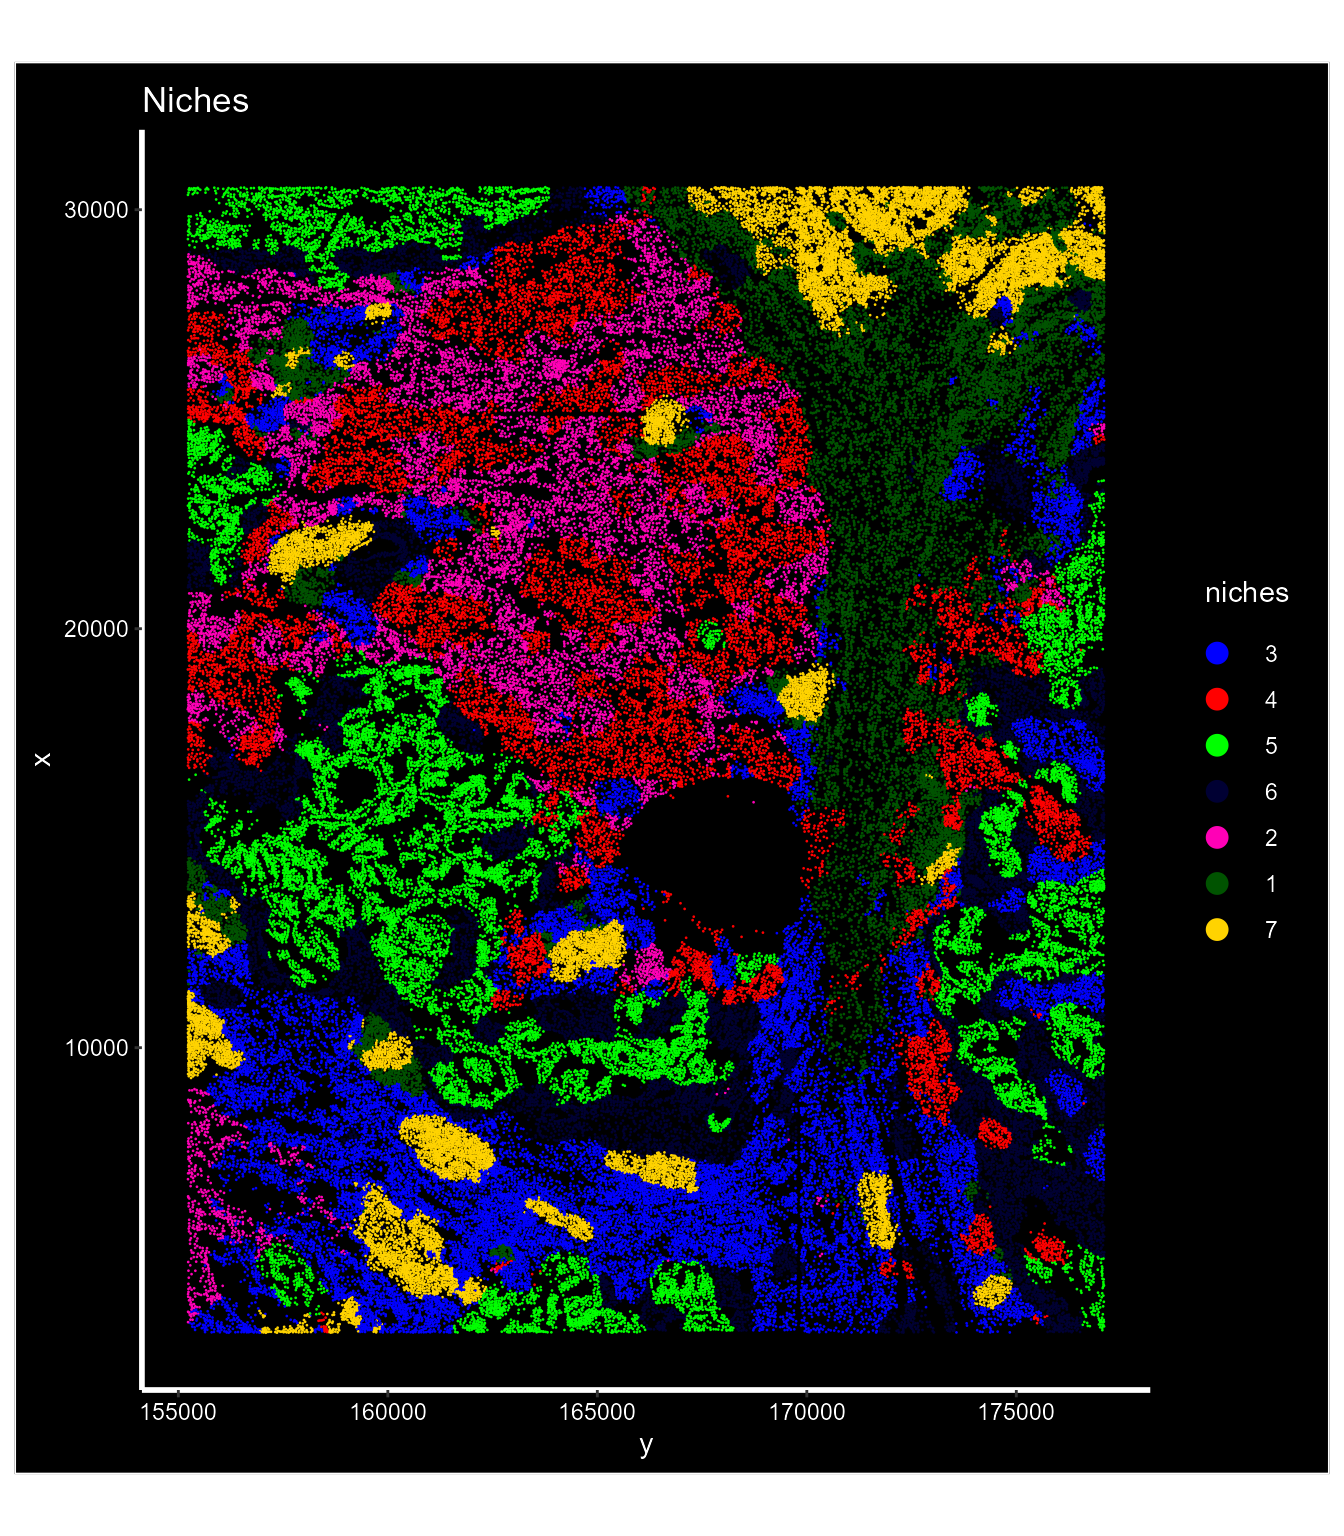
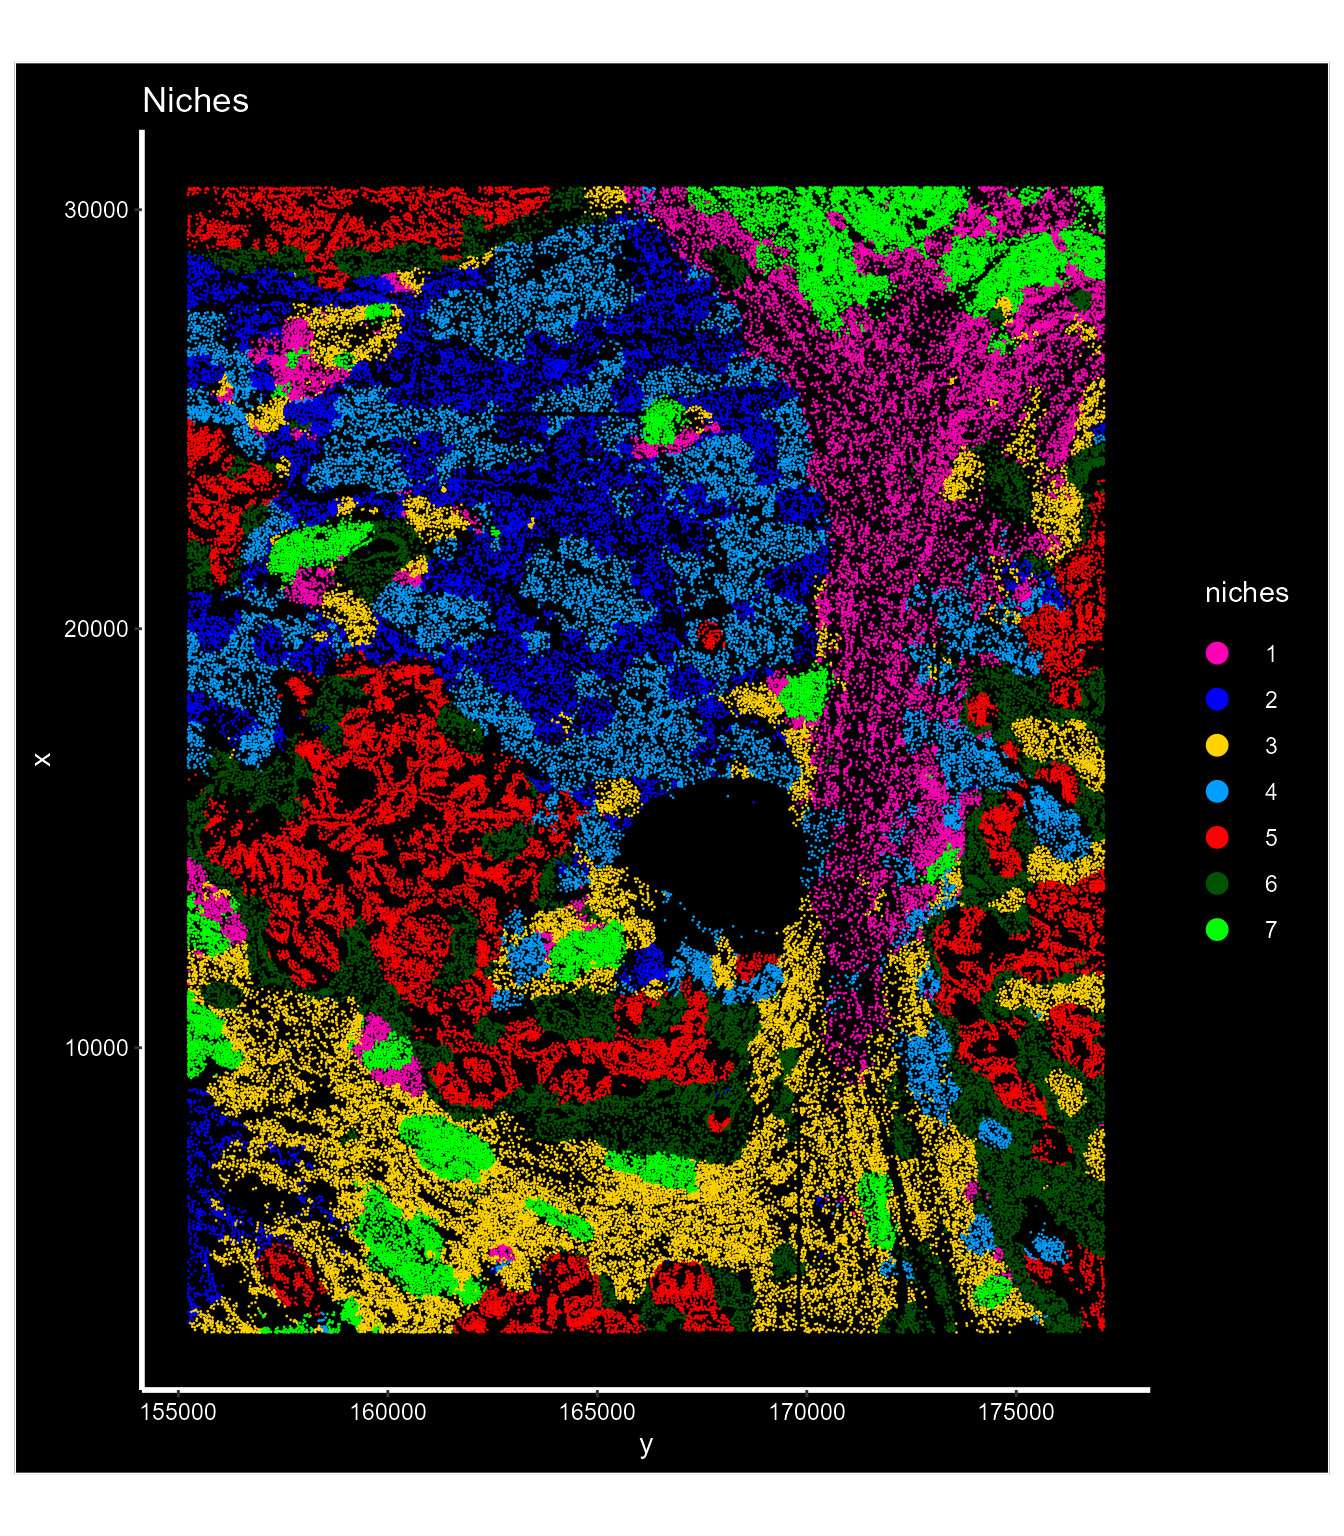
Change the color of the figure.

diff --git a/docs/articles/SpaTopic.html b/docs/articles/SpaTopic.html
@@ -161,7 +161,7 @@
 <span><span class="co">#&gt; Output model perplexity:</span></span>
 <span><span class="co">#&gt; 11.3156329380619</span></span>
 <span><span class="co">#&gt;    user  system elapsed </span></span>
-<span><span class="co">#&gt;   87.81    0.28   89.26</span></span></code></pre></div>
+<span><span class="co">#&gt;   91.69    0.92   93.75</span></span></code></pre></div>
 </div>
 <div class="section level3">
 <h3 id="topic-content-and-distribution">Topic Content and Distribution<a class="anchor" aria-label="anchor" href="#topic-content-and-distribution"></a>
@@ -180,8 +180,9 @@
 <code class="sourceCode R"><span><span class="va">prob</span><span class="op">&lt;-</span><span class="fu"><a href="https://rdrr.io/r/base/matrix.html" class="external-link">as.matrix</a></span><span class="op">(</span><span class="va">gibbs.res</span><span class="op">$</span><span class="va">Z.trace</span><span class="op">)</span></span>
 <span><span class="va">nano.obj</span><span class="op">$</span><span class="va">Topic</span><span class="op">&lt;-</span><span class="fu"><a href="https://rdrr.io/r/base/factor.html" class="external-link">as.factor</a></span><span class="op">(</span><span class="fu"><a href="https://rdrr.io/r/base/apply.html" class="external-link">apply</a></span><span class="op">(</span><span class="va">prob</span>,<span class="fl">1</span>,<span class="va">which.max</span><span class="op">)</span><span class="op">)</span></span>
 <span><span class="kw"><a href="https://rdrr.io/r/base/library.html" class="external-link">library</a></span><span class="op">(</span><span class="va"><a href="https://ggplot2.tidyverse.org" class="external-link">ggplot2</a></span><span class="op">)</span></span>
+<span><span class="va">palatte</span><span class="op">&lt;-</span> <span class="fu"><a href="https://rdrr.io/r/base/c.html" class="external-link">c</a></span><span class="op">(</span><span class="st">"#0000FFFF"</span>,<span class="st">"#FF0000FF"</span>,<span class="st">"#00FF00FF"</span>,<span class="st">"#009FFFFF"</span>,<span class="st">"#FF00B6FF"</span>,<span class="st">"#005300FF"</span>,<span class="st">"#FFD300FF"</span><span class="op">)</span></span>
 <span><span class="fu"><a href="https://satijalab.org/seurat/reference/ImageDimPlot.html" class="external-link">ImageDimPlot</a></span><span class="op">(</span><span class="va">nano.obj</span>, fov <span class="op">=</span> <span class="st">"lung5.rep1"</span>, group.by <span class="op">=</span> <span class="st">"Topic"</span>, axes <span class="op">=</span> <span class="cn">TRUE</span>, </span>
-<span>                           dark.background <span class="op">=</span> <span class="cn">T</span>,cols <span class="op">=</span> <span class="st">"glasbey"</span><span class="op">)</span> <span class="op">+</span> <span class="fu"><a href="https://ggplot2.tidyverse.org/reference/labs.html" class="external-link">ggtitle</a></span><span class="op">(</span><span class="st">"Topic"</span><span class="op">)</span> </span></code></pre></div>
+<span>                           dark.background <span class="op">=</span> <span class="cn">T</span>,cols <span class="op">=</span> <span class="va">palatte</span><span class="op">)</span> <span class="op">+</span> <span class="fu"><a href="https://ggplot2.tidyverse.org/reference/labs.html" class="external-link">ggtitle</a></span><span class="op">(</span><span class="st">"Topic"</span><span class="op">)</span> </span></code></pre></div>
 <p><img src="SpaTopic_files/figure-html/topics-1.png" width="672"></p>
 </div>
 <div class="section level3">
@@ -194,7 +195,11 @@
 <span>                            niches.k <span class="op">=</span> <span class="fl">7</span>, neighbors.k <span class="op">=</span> <span class="fl">100</span><span class="op">)</span><span class="op">)</span></span></code></pre></div>
 <p>We also visualize the distribution of seven niches over the same image.</p>
 <div class="sourceCode" id="cb8"><pre class="downlit sourceCode r">
-<code class="sourceCode R"><span><span class="fu"><a href="https://satijalab.org/seurat/reference/ImageDimPlot.html" class="external-link">ImageDimPlot</a></span><span class="op">(</span><span class="va">nano.obj</span>, fov <span class="op">=</span> <span class="st">"lung5.rep1"</span>, group.by <span class="op">=</span> <span class="st">"niches"</span>, axes <span class="op">=</span> <span class="cn">TRUE</span>, dark.background <span class="op">=</span> <span class="cn">T</span>,cols <span class="op">=</span> <span class="st">"glasbey"</span><span class="op">)</span> <span class="op">+</span> <span class="fu"><a href="https://ggplot2.tidyverse.org/reference/labs.html" class="external-link">ggtitle</a></span><span class="op">(</span><span class="st">"Niches"</span><span class="op">)</span> </span></code></pre></div>
+<code class="sourceCode R"><span><span class="va">nano.obj</span><span class="op">$</span><span class="va">niches</span><span class="op">&lt;-</span><span class="fu"><a href="https://rdrr.io/r/base/factor.html" class="external-link">factor</a></span><span class="op">(</span><span class="va">nano.obj</span><span class="op">$</span><span class="va">niches</span><span class="op">)</span></span>
+<span><span class="va">nano.obj</span><span class="op">$</span><span class="va">niches</span><span class="op">&lt;-</span><span class="fu"><a href="https://rdrr.io/r/base/factor.html" class="external-link">ordered</a></span><span class="op">(</span><span class="va">nano.obj</span><span class="op">$</span><span class="va">niches</span>,levels <span class="op">=</span> <span class="fu"><a href="https://rdrr.io/r/base/c.html" class="external-link">c</a></span><span class="op">(</span><span class="fl">1</span>,<span class="fl">2</span>,<span class="fl">3</span>,<span class="fl">4</span>,<span class="fl">5</span>,<span class="fl">6</span>,<span class="fl">7</span><span class="op">)</span><span class="op">)</span></span>
+<span><span class="co">## try to match the colors of topics</span></span>
+<span><span class="va">palatte2</span><span class="op">&lt;-</span> <span class="fu"><a href="https://rdrr.io/r/base/c.html" class="external-link">c</a></span><span class="op">(</span><span class="st">"#FF00B6FF"</span>,<span class="st">"#0000FFFF"</span>,<span class="st">"#FFD300FF"</span>,<span class="st">"#009FFFFF"</span>,<span class="st">"#FF0000FF"</span>,<span class="st">"#005300FF"</span>,<span class="st">"#00FF00FF"</span><span class="op">)</span></span>
+<span><span class="fu"><a href="https://satijalab.org/seurat/reference/ImageDimPlot.html" class="external-link">ImageDimPlot</a></span><span class="op">(</span><span class="va">nano.obj</span>, fov <span class="op">=</span> <span class="st">"lung5.rep1"</span>, group.by <span class="op">=</span> <span class="st">"niches"</span>, axes <span class="op">=</span> <span class="cn">TRUE</span>, dark.background <span class="op">=</span> <span class="cn">T</span>,cols <span class="op">=</span> <span class="va">palatte2</span><span class="op">)</span> <span class="op">+</span> <span class="fu"><a href="https://ggplot2.tidyverse.org/reference/labs.html" class="external-link">ggtitle</a></span><span class="op">(</span><span class="st">"Niches"</span><span class="op">)</span> </span></code></pre></div>
 <p><img src="SpaTopic_files/figure-html/niches_vis-1.png" width="672"></p>
 </div>
 </div>
